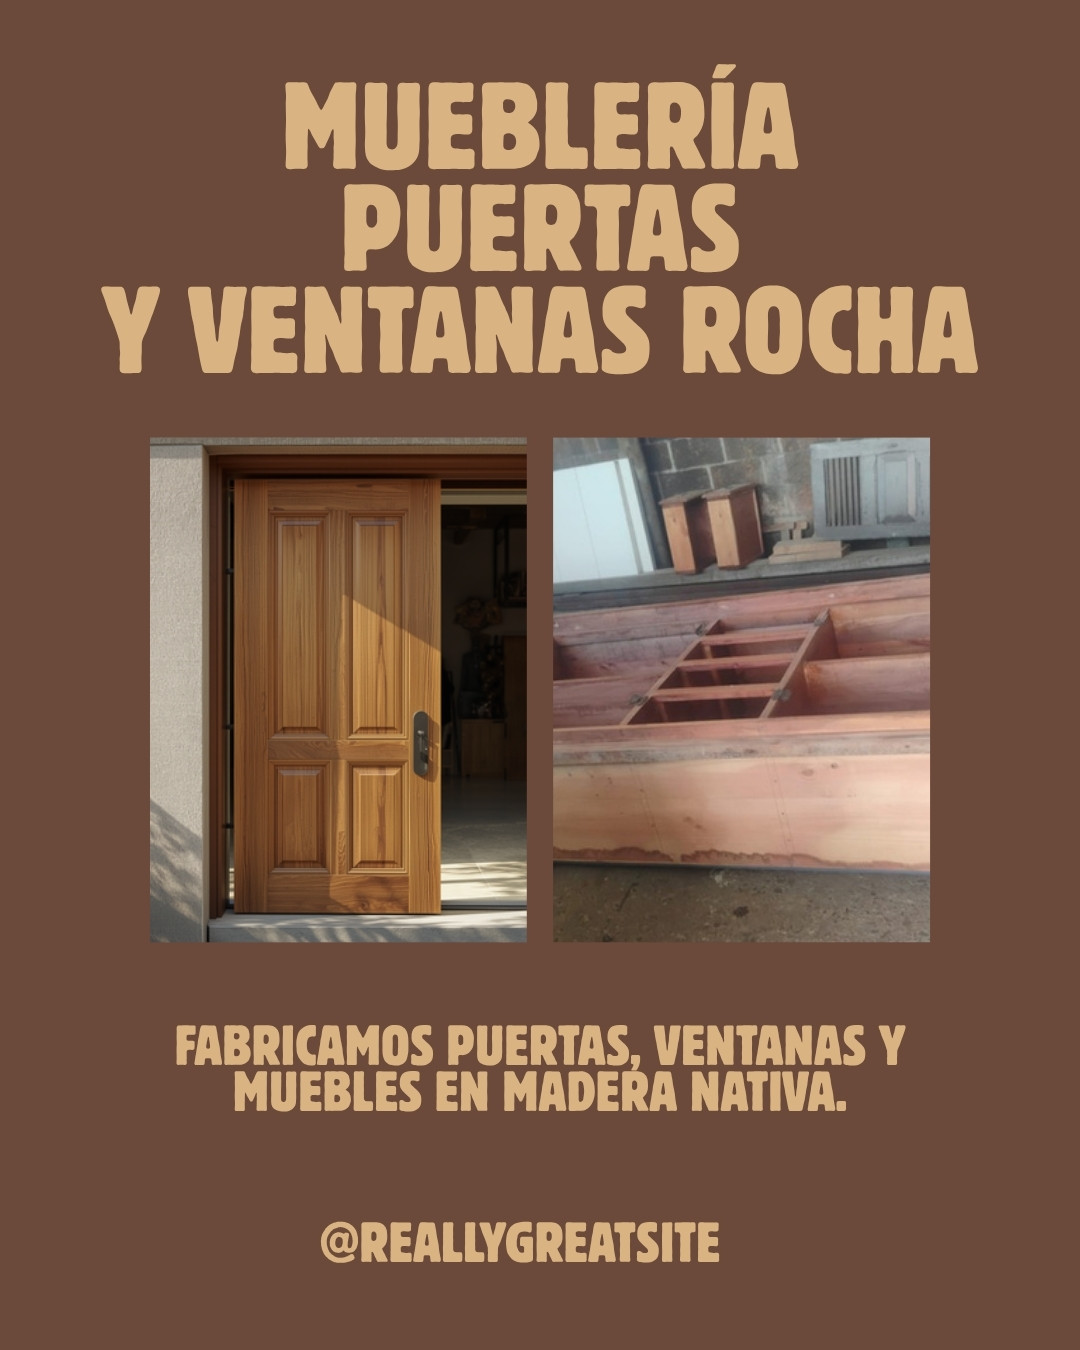
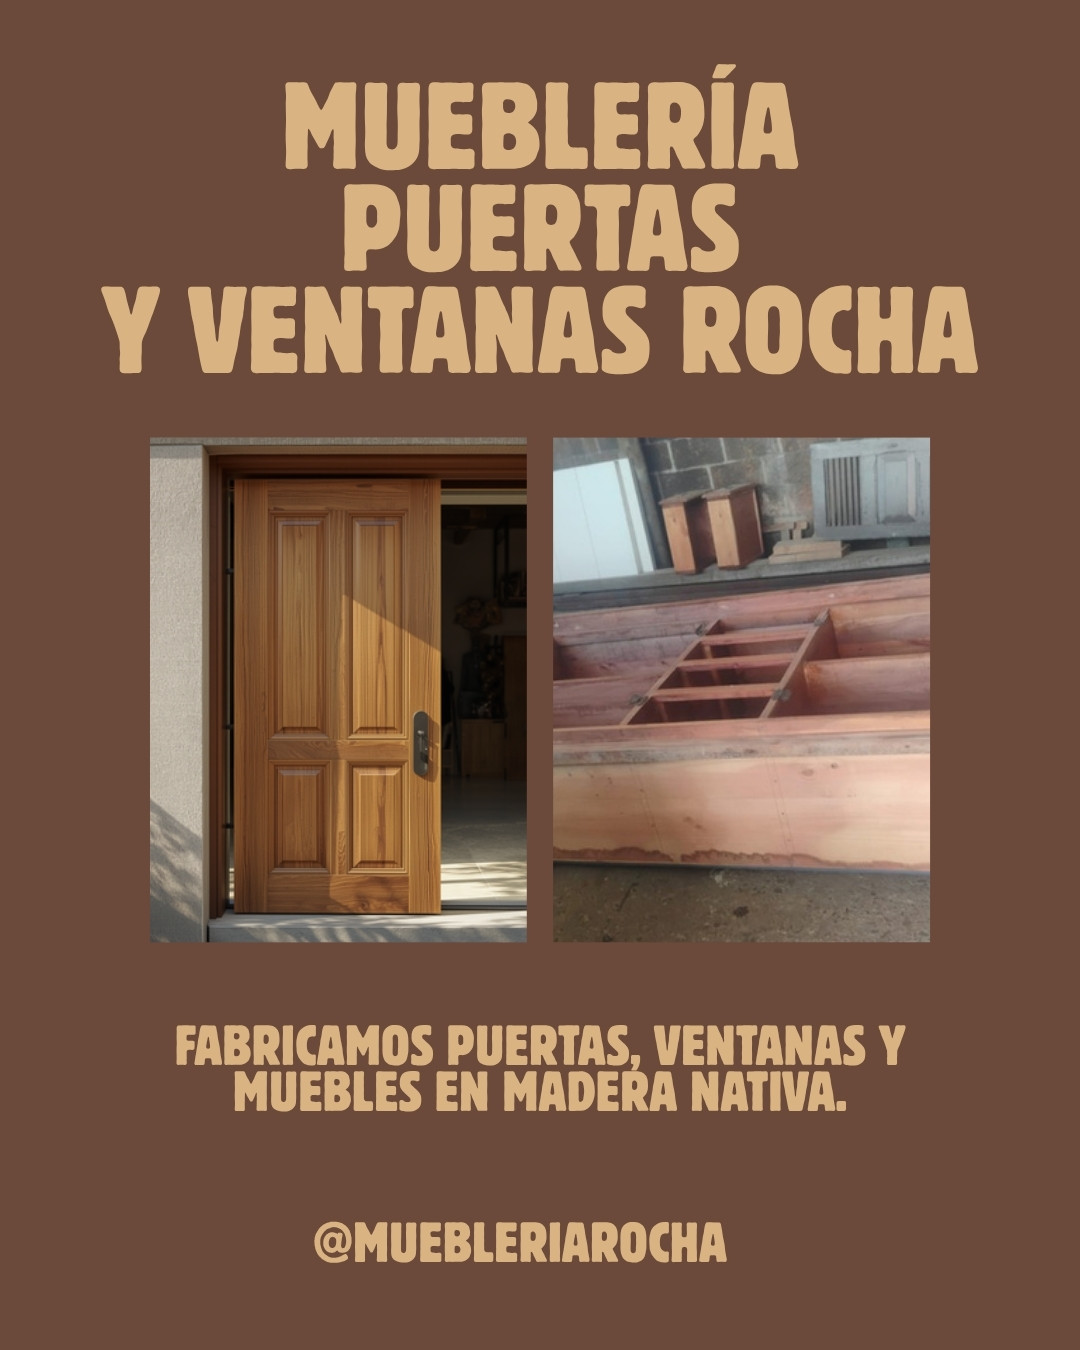
fix: actualizar imágenes Canva con @muebleriarocha y corregir recorte foto con persona

Changed region(s): [[0.275, 0.9022, 0.6722, 0.9333]]

diff --git a/components/sections/products.tsx b/components/sections/products.tsx
@@ -24,8 +24,8 @@ function ProductCard({ p }: { p: Product }) {
   return (
     <article className="reveal group bg-paper rounded-lg p-4 relative transition-all duration-500 cursor-pointer flex flex-col hover:-translate-y-1.5 hover:shadow-[0_24px_50px_rgba(26,20,16,0.08)]">
       <div
-        className="aspect-square rounded bg-bg-2 bg-cover bg-center mb-4 relative overflow-hidden"
-        style={{ backgroundImage: `url(${p.image})` }}
+        className="aspect-square rounded bg-bg-2 bg-cover mb-4 relative overflow-hidden"
+        style={{ backgroundImage: `url(${p.image})`, backgroundPosition: p.bgPosition ?? "center" }}
       >
         <div className="absolute top-3 left-3 flex flex-col gap-1.5 z-[2]">
           {p.tags.map((t) => (

diff --git a/lib/data.ts b/lib/data.ts
@@ -16,6 +16,7 @@ export type Product = {
   name: string;
   category: string;
   image: string;
+  bgPosition?: string;
   tags: Array<"hot" | "nuevo" | "premium" | "a-medida" | "popular" | "pedido">;
   rating?: number;
   whatsappProduct: string;
@@ -83,6 +84,7 @@ export const products: Product[] = [
     name: "Puerta raulí natural",
     category: "PUERTA · RAULÍ",
     image: "/canva/puertas-rauli.jpg",
+    bgPosition: "right center",
     tags: ["nuevo", "premium"],
     rating: 5,
     whatsappProduct: "puerta de raulí"
